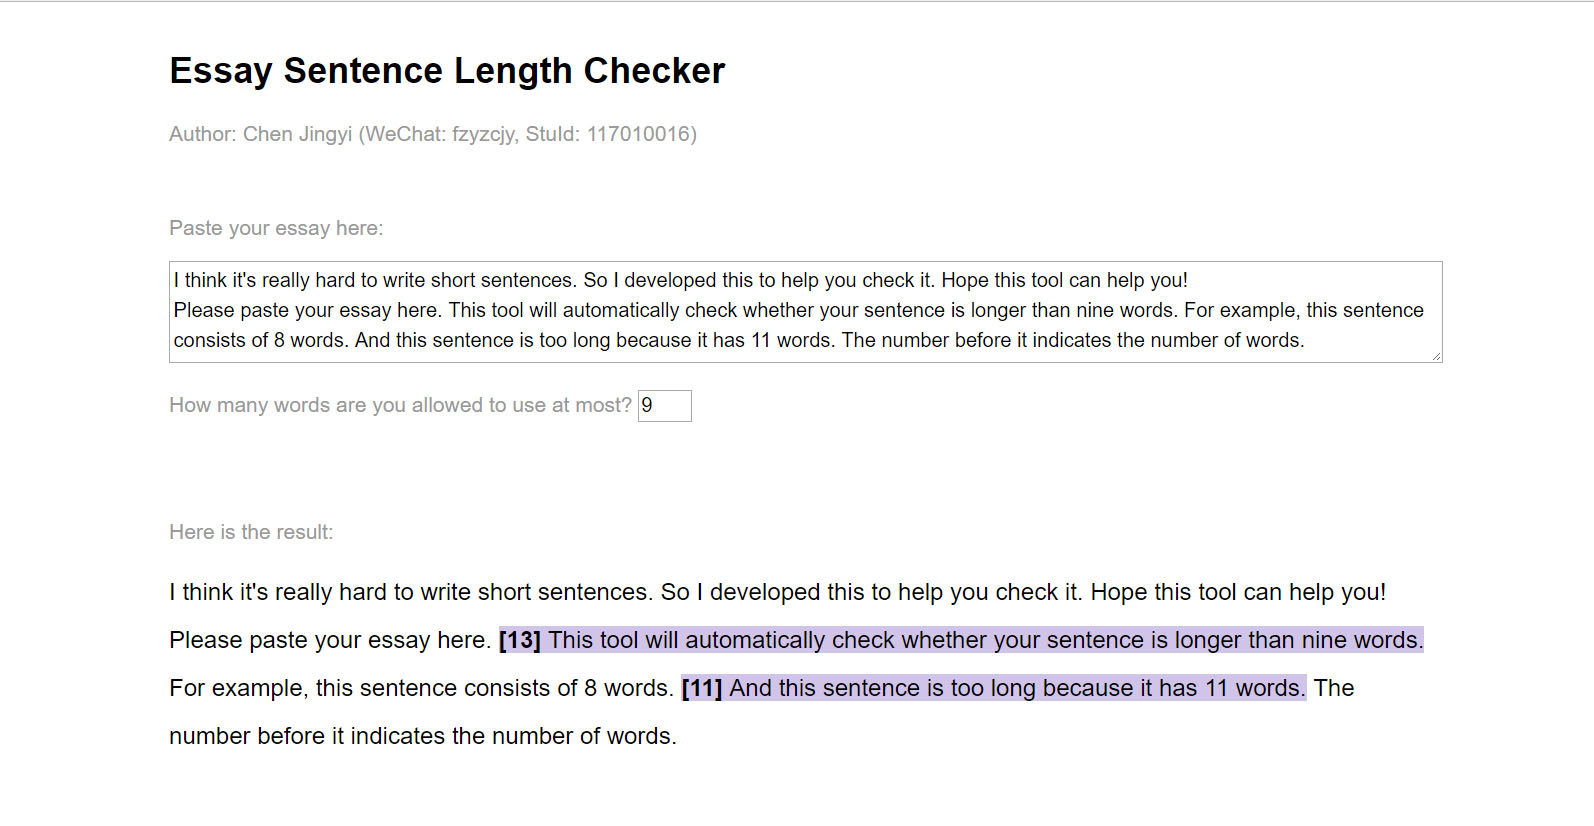
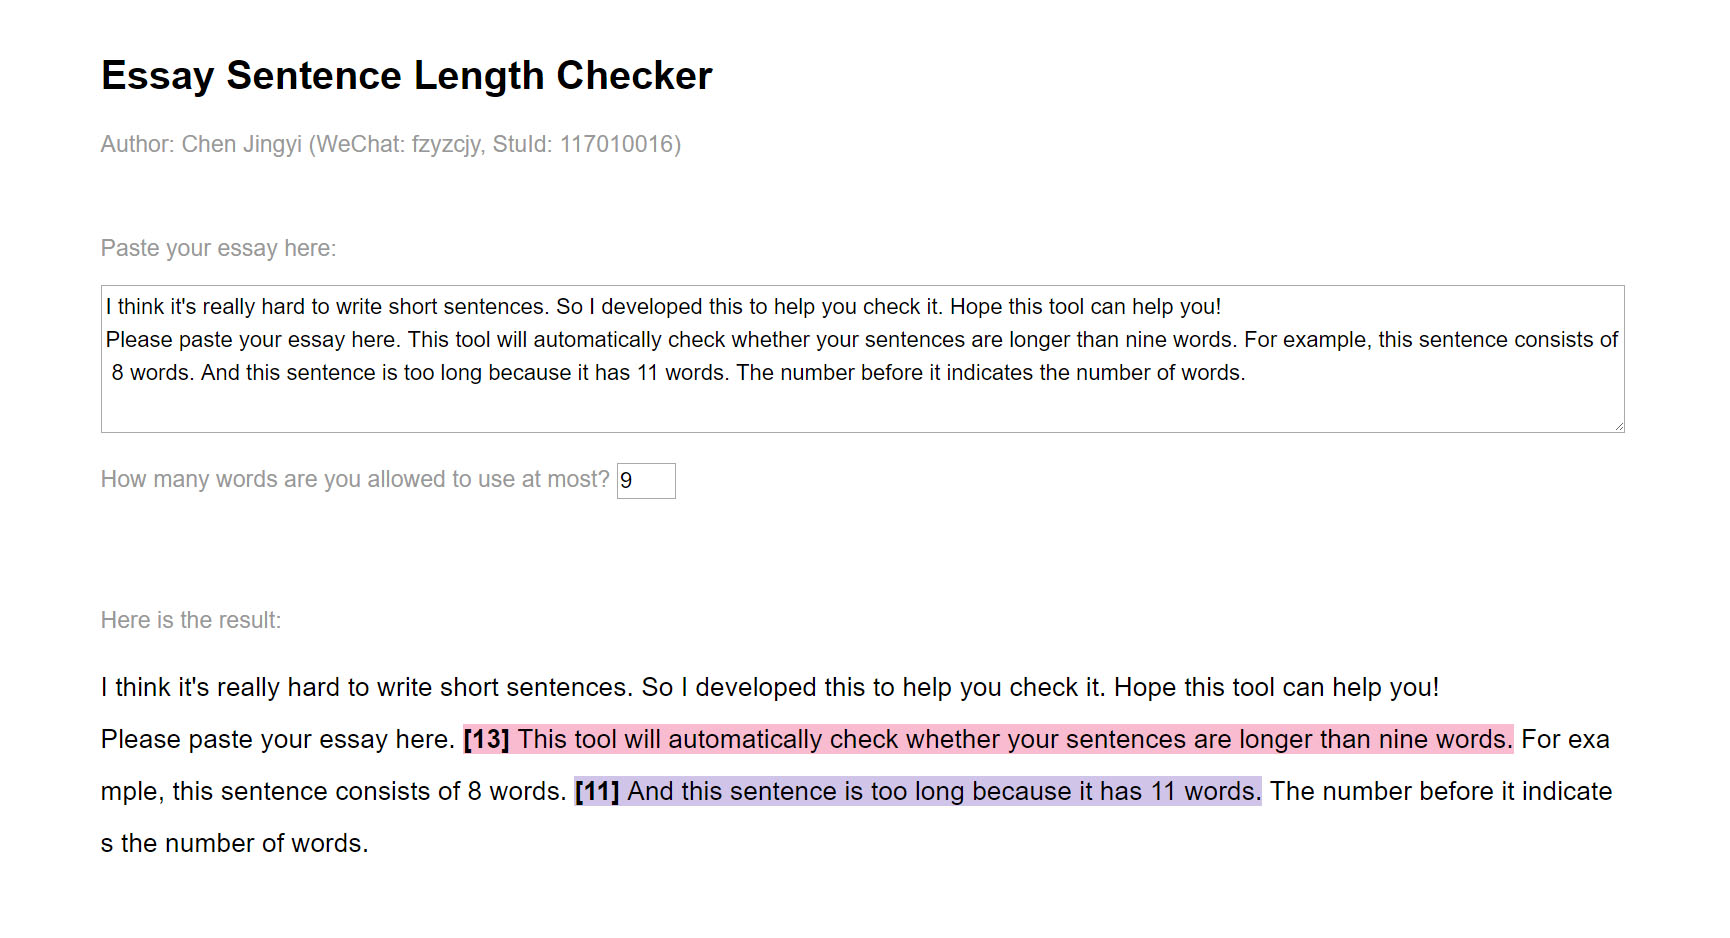
feat: 增加超长句提示；修改截图

diff --git a/EssaySentenceLenChecker/EssaySentenceLenChecker.html b/EssaySentenceLenChecker/EssaySentenceLenChecker.html
@@ -40,6 +40,9 @@
     #output .warn {
         background: #D1C4E9;
     }
+    #output .error {
+        background: #F8BBD0;
+    }
 
     .hint-text {
         color: #999;
@@ -87,7 +90,7 @@
     <div>
         <p class="hint-text">Paste your essay here:</p>
         <textarea id="input">I think it's really hard to write short sentences. So I developed this to help you check it. Hope this tool can help you!
-Please paste your essay here. This tool will automatically check whether your sentence is longer than nine words. For example, this sentence consists of 8 words. And this sentence is too long because it has 11 words. The number before it indicates the number of words.</textarea>
+Please paste your essay here. This tool will automatically check whether your sentences are longer than nine words. For example, this sentence consists of 8 words. And this sentence is too long because it has 11 words. The number before it indicates the number of words.</textarea>
         <p class="hint-text">How many words are you allowed to use at most? <input id="input-max-cnt" type="number" value="9"/></p>
         <br><br>
         <p class="hint-text">Here is the result:</p>
@@ -132,6 +135,7 @@ Please paste your essay here. This tool will automatically check whether your se
 </script>
 
 <script>
+    var WARN_OR_ERR_THROTTLE = 2;
     var render = throttle(function(e) {
         var $output = $("#output");
         $output.children().remove();
@@ -152,7 +156,8 @@ Please paste your essay here. This tool will automatically check whether your se
             var wordCnt = sen.trim().split(" ").length;
             var $el = $("<span class='sen'></span>");
             if(wordCnt > warnWordCnt) {
-                $el.html(' <span class="warn"><b>[' + wordCnt + ']</b> ' + sen + "</span>");
+                var cls = (wordCnt-warnWordCnt<=WARN_OR_ERR_THROTTLE)?'warn':'error';
+                $el.html(' <span class="'+cls+'"><b>[' + wordCnt + ']</b> ' + sen + "</span>");
             } else {
                 $el.html(sen);
             }
